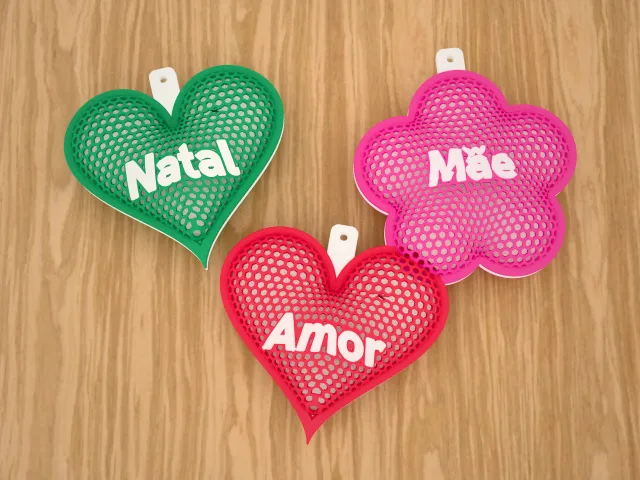
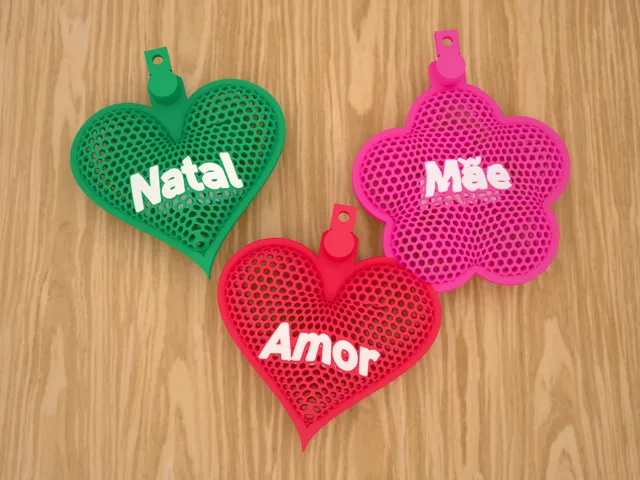
chore: miniatura e foto da caixinha com o padrão novo (conector, sem base) e QA de fatiamento da trava nova (#273)

diff --git a/docs/QA-modelos.md b/docs/QA-modelos.md
@@ -332,8 +332,8 @@ impressoras de mesa maior); sem o aviso do app, é **falha**.
 | Textura na peça (ferramenta) | pincel numa faixa | ✅ ok | Bambu ✓ · Orca ✓ | 60 | 46,9 | 1 | – | – |
 | Caixinha termoformada: fechos (ferramenta) | clipe | ✅ ok | Bambu ✓ · Orca ✓ | 2 | 0,2 | 1 | – | – |
 | Caixinha termoformada: fechos (ferramenta) | conector e porca | ✅ ok | Bambu ✓ · Orca ✓ | 9 | 1,5 | 1 | – | – |
-| Caixinha termoformada: fechos (ferramenta) | dobradiça e trava (coração, dobradiça em cima) | ✅ ok | Bambu ✓ · Orca ✓ | 25 | 9,4 | 1 | – | – |
-| Caixinha termoformada: fechos (ferramenta) | dobradiça e trava (ovo, dobradiça embaixo) | ✅ ok | Bambu ✓ · Orca ✓ | 26 | 10,3 | 1 | – | – |
+| Caixinha termoformada: fechos (ferramenta) | dobradiça e trava (coração, dobradiça em cima) | ✅ ok | Bambu ✓ · Orca ✓ | 24 | 9,0 | 1 | – | – |
+| Caixinha termoformada: fechos (ferramenta) | dobradiça e trava (ovo, dobradiça embaixo) | ✅ ok | Bambu ✓ · Orca ✓ | 25 | 9,9 | 1 | – | – |
 | Caixinha termoformada: fechos (ferramenta) | tampa com pino curto e fino | ✅ ok | Bambu ✓ · Orca ✓ | 8 | 1,4 | 1 | – | app: Havia traços do desenho mais finos que o bico da impressora e eu os engrossei para a tela sair inteira.; app: A tampa rosqueada precisa das bases nas duas metades (cada base leva metade do pino): liguei as duas bases. |
 | Caixinha termoformada: fechos (ferramenta) | tampa rosqueada | ✅ ok | Bambu ✓ · Orca ✓ | 10 | 2,0 | 1 | – | app: A tampa rosqueada precisa das bases nas duas metades (cada base leva metade do pino): liguei as duas bases. |
 | Caixinha termoformada: moldes macho e fêmea (ferramenta) | bola de Natal | ✅ ok | Bambu ✓ · Orca ✓ | 68 | 45,9 | 1 | – | – |
